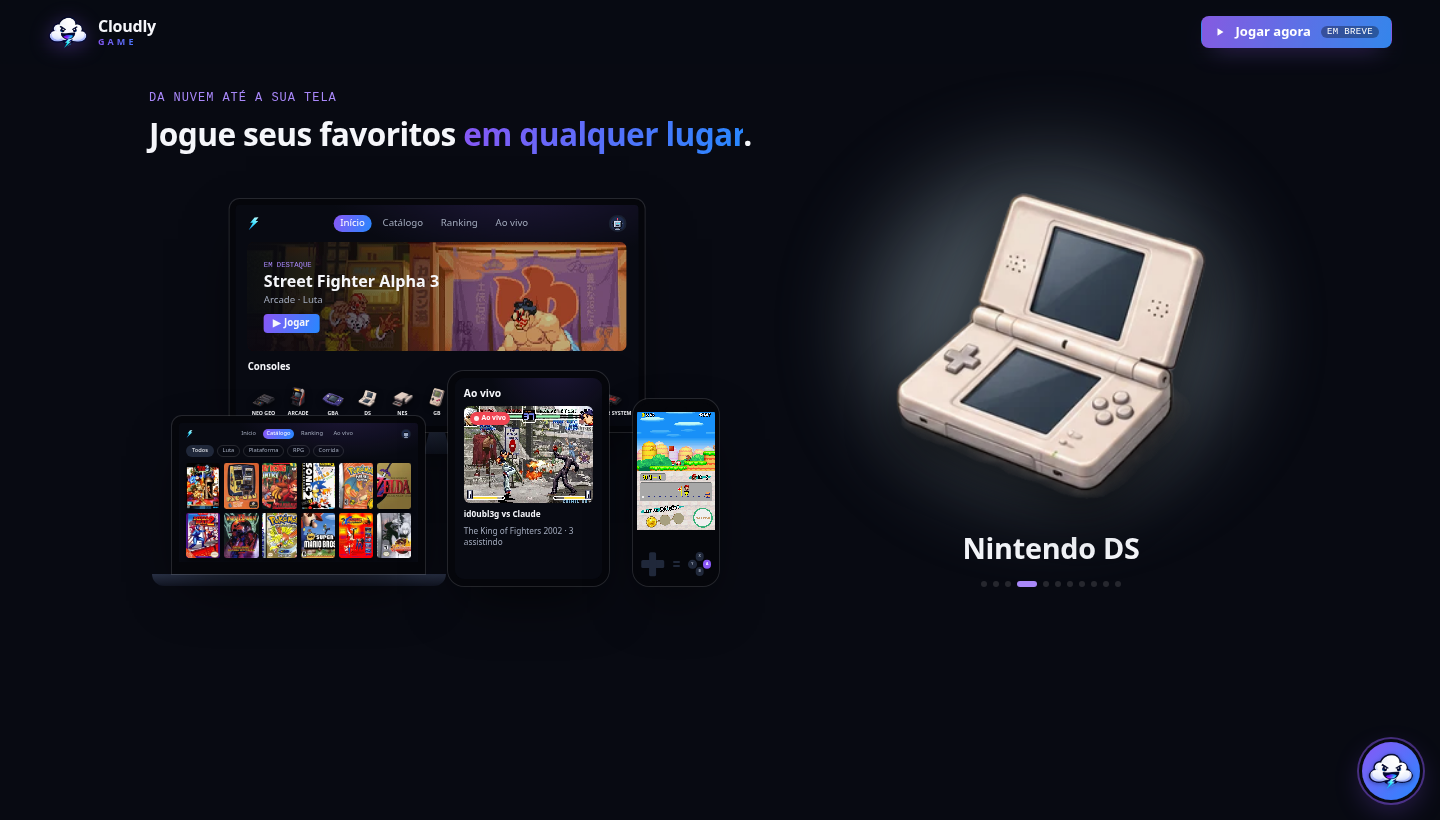
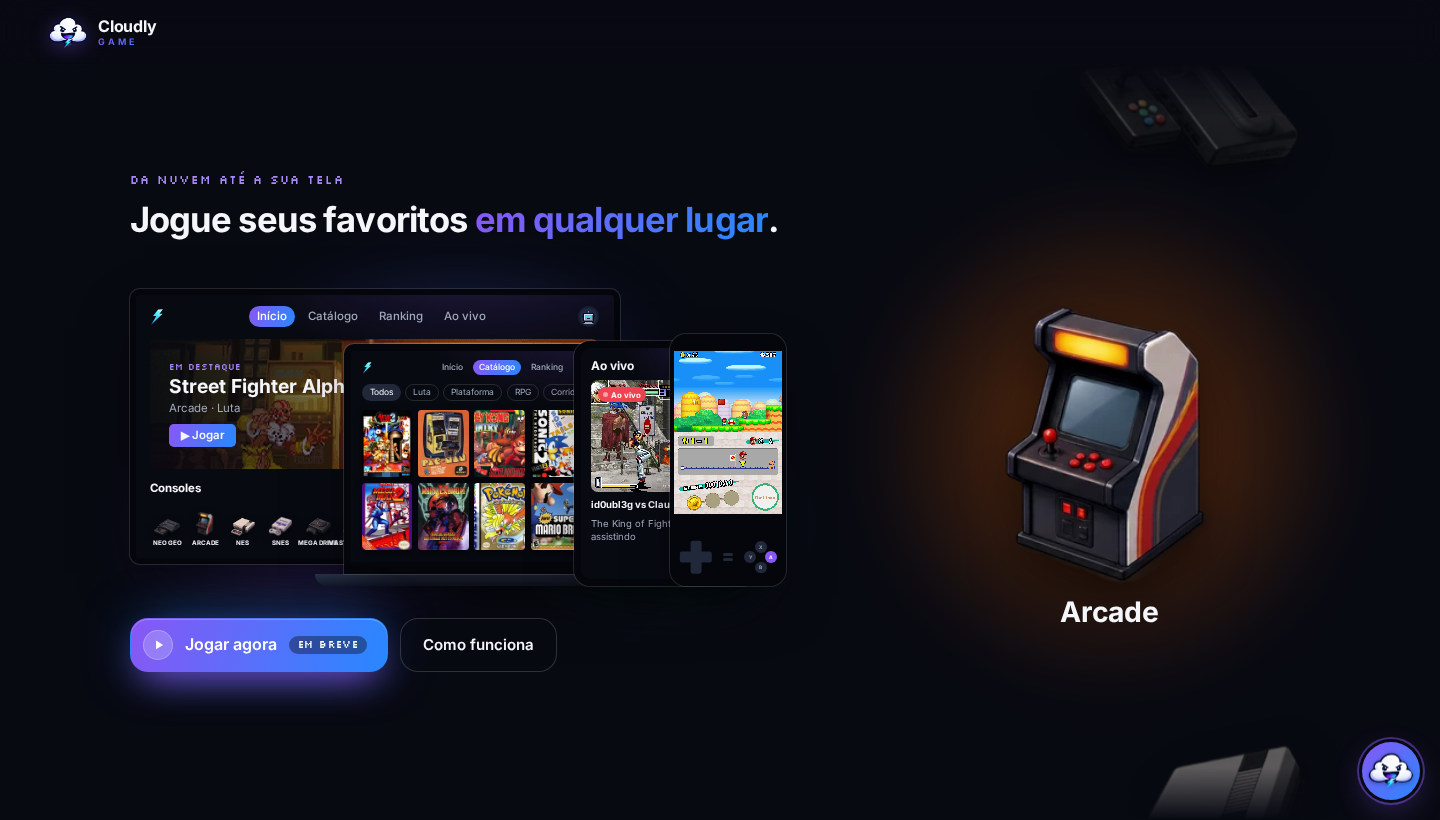
docs: describe the roulette, the new hero and the help chat and update the screenshot

diff --git a/README.md b/README.md
@@ -9,7 +9,7 @@
 </div>
 
 <p align="center">
-  <img src=".github/home.png" alt="Opening screen with the slogan and the headline on the left above a TV, a laptop, a tablet and a phone showing the app, and a large console on the right" width="100%">
+  <img src=".github/home.png" alt="Opening screen with the slogan and the headline on the left above a TV, a laptop, a tablet and a phone showing the app and the play button, and the consoles on a roulette wheel on the right" width="100%">
 </p>
 
 <!-- markdownlint-enable MD033 -->
@@ -32,17 +32,18 @@
 
 ## Overview
 
-Cloudly Game Landing is a static page, with plain HTML, CSS and JavaScript and no build step, that presents [Cloudly Game](https://github.com/id0ubl3g/cloudly-game-react) to people who have not played it yet. It opens on one screen with the headline and the app drawn on a TV, a laptop, a tablet and a phone on the left, and the eleven consoles passing one at a time on the right. Below it, one section shows the three steps to start playing and the other features, all drawn as real pieces of the app interface. The **Jogar agora** button in the header is marked **Em breve** until the platform opens, and the page collects no data. Cloudly, the mascot, sits in the corner as a help chat that answers the frequent questions.
+Cloudly Game Landing is a static page, with plain HTML, CSS and JavaScript and no build step, that presents [Cloudly Game](https://github.com/id0ubl3g/cloudly-game-react) to people who have not played it yet. It opens on one screen with the headline, the app drawn side by side on a TV, a laptop, a tablet and a phone and the play button on the left, and the twelve consoles turning on a roulette wheel on the right. Below it, one section shows the three steps to start playing and the other features, all drawn as real pieces of the app interface. The large **Jogar agora** button under the devices is marked **Em breve** until the platform opens, and the page collects no data. Cloudly, the mascot, sits in the corner as a help chat that answers the frequent questions.
 
 ## Features
 
 - Loading screen with Cloudly spitting bolts, the same as in the frontend, that covers the page until its styles, fonts and images are in (fonts and images are waited for 5 seconds at most), so the page never shows unstyled. On the first visit of the session it stays at least 2 seconds
-- Opening screen with the slogan **Da nuvem até a sua tela** and the headline on the left, above the app drawn in HTML on four devices: the home with the featured game and the console shelf on a TV, the catalog on a laptop, a live on a tablet and New Super Mario Bros. with the touch controls on a phone
-- When the loading screen leaves, the slogan, the headline, the four devices and the console come in one after the other, and further down the titles and cards appear in sequence as the page scrolls
-- The eleven consoles pass one at a time on the right of the opening screen, large, with the same artwork and color as the console shelf of the app and their name
-- **Jogar agora** in the top right corner of the header, marked **Em breve** until the platform opens, with the whole opening screen fitting without scrolling down to about 600px of height
+- Opening screen with the slogan **Da nuvem até a sua tela** and the headline on the left, above the app drawn in HTML on four devices in a row, each covering 75% of its width over the one before, and the play buttons: the home with the featured game and the console shelf on a TV, the catalog on a laptop, a live on a tablet and New Super Mario Bros. with the touch controls on a phone
+- When the loading screen leaves, the headline comes in letter by letter, as the hero title of the app; the four devices, the play button and the consoles follow, and further down the titles and cards appear in sequence as the page scrolls
+- Images that are still loading when the loading screen leaves hold their place with a skeleton, as in the app, and fade in when they arrive; the device under the pointer lifts a little
+- The twelve consoles sit on a roulette wheel whose hub is off the right edge of the screen: the console in front is large, with its glow color and name, and the one before and after come in tilted, cut by the screen. The wheel opens with a full spin, then turns on its own and stops while the pointer is over it; it also turns by dragging it, or with the arrow keys once focused, and a strong flick lets it spin free, slow down and land on a random console; the console in front lifts a little under the pointer, as on the console shelf of the app. On narrow screens the wheel turns sideways, with the neighbours cut by the sides of the screen
+- A large **Jogar agora** button under the devices, with a light sweeping across it, marked **Em breve** until the platform opens, next to **Como funciona**, which scrolls to the steps. The small one in the header only shows once the large one scrolls away, and the header turns to glass as the page scrolls
 - **Como funciona** in one section: three numbered steps to start playing, each drawn as a piece of the app (open in the browser on any device, pick a game in the catalog, call friends to the room), then the other features as cards: ranked, with the FT2 scoreboard over a fighting game, the elo card, the series result and the top of the ranking, save slots with the resume point, the level with the XP bar and the daily combo, a live card, the clip button, tournaments, with an event live over Super Bomberman 3 next to its bracket, the event alerts, public rooms, drawn as a list of open rooms with their seats and a join button, and rooms with friends, with the invite code and the invite alert
-- Help chat with Cloudly in the corner: fourteen frequent questions as suggestions, a list of all of them, and typed questions matched by keywords
+- Help chat with Cloudly in the corner, opened as a tall rectangle: fourteen frequent questions as suggestions, a list of all of them, and typed questions matched by keywords. On a phone the chat takes the whole screen, follows the area above the keyboard and keeps the keyboard closed until the text field is tapped, so the suggestions stay in sight
 - Brand look from the app: dark surfaces, the purple and blue gradient, Poppins and the Silkscreen pixel font, pill buttons and the pixel art sprites of the app
 - Works with the keyboard, follows the reduced motion setting of the system and has no horizontal scroll on phones
 
@@ -58,7 +59,7 @@ Cloudly Game Landing is a static page, with plain HTML, CSS and JavaScript and n
 
 | Anchor | Section |
 | ------ | ------- |
-| `#abertura` | Headline, the app on four devices and the consoles passing one at a time |
+| `#abertura` | Headline, the play button, the app on four devices and the consoles on a roulette wheel |
 | `#como-funciona` | The three steps to play and the other features |
 | `#ajuda` | Help chat with Cloudly |
 
@@ -117,7 +118,7 @@ To run Cloudly Game Landing, any static file server is enough, such as Python 3 
 
 ## Configuration
 
-Everything lives in `main.js`: the consoles, with their names and colors, in `PLATFORMS`, their order and artwork proportions in `SHOWCASE`, the time each console stays on screen in `CONSOLE_SLIDE_MS`, and the help chat questions and answers in `HELP_QUESTIONS`.
+Everything lives in `main.js`: the consoles, with their names and colors, in `PLATFORMS`, their order and artwork proportions in `SHOWCASE`, the time each console stays in front in `CONSOLE_TURN_MS`, and the help chat questions and answers in `HELP_QUESTIONS`.
 
 ## Running the Page
 
@@ -132,14 +133,14 @@ Open `http://localhost:8000`. To publish it, upload the folder to any static hos
 
 ### From the First Visit to the Product
 
-1. The person opens the page and sees the headline above the app on a TV, a laptop, a tablet and a phone, while the consoles pass one at a time on the right.
+1. The person opens the page and sees the headline above the app on a TV, a laptop, a tablet and a phone and the play button, while the consoles turn on a roulette wheel on the right.
 2. Scrolling down, the three steps show how to start playing, followed by the other features of the app.
-3. **Jogar agora** is marked **Em breve** and does nothing yet; asking Cloudly when the platform opens explains that it will lead to the platform as soon as it opens.
+3. **Jogar agora**, under the devices, is marked **Em breve** and does nothing yet; asking Cloudly when the platform opens explains that it will lead to the platform as soon as it opens.
 
 ### Asking Cloudly a Question
 
 1. Right after the loading screen, Cloudly says hello next to the button in the corner, and the greeting fades away after 5 seconds so it does not cover the page.
-2. Pressing the button, or **Perguntas** in the header, opens the chat with a greeting and four suggestions.
+2. Pressing the button opens the chat with a greeting and four suggestions.
 3. A suggestion, or a typed question such as "funciona no iphone?", gets an answer after a short typing animation, followed by new suggestions.
 4. The list button next to the text field opens all the questions. Escape closes the list first and then the chat.
 
@@ -162,7 +163,7 @@ Open `http://localhost:8000`. To publish it, upload the folder to any static hos
 
 1. Colors, radii, buttons, the console shelf colors and artwork, the home, catalog and play screens on the devices, the live card, the room seats, the save slots, the XP bar, the combo tile, the ranked scoreboard, the elo card, the ranking, the event bracket and the event alerts copy the styles of the frontend, so the page looks like the product. The app, in turn, uses the footer and the loading screen of the page.
 2. The pixel art (rank icons, avatars, flame, cartridge, stopwatch and heart) is generated from the sprite patterns of the frontend and saved as SVG files.
-3. The names, numbers and rewards shown in the features match what the platform does, such as eleven consoles, up to four players, three save slots, levels earned with XP in any match and shown as a number, apart from the elo, ranked series in FT2 in the fighting games that have ranked switched on, elos from Cobre to Ametista earned only in ranked, the top 50 in the ranking, and tournaments in 1v1 or in pairs with one point per win, a call 10 minutes before the start and 5 minutes to join the room when the match is called.
+3. The names, numbers and rewards shown in the features match what the platform does, such as twelve consoles, up to four players, three save slots, levels earned with XP in any match and shown as a number, apart from the elo, ranked series in FT2 in the fighting games that have ranked switched on, elos from Cobre to Ametista earned only in ranked, the top 50 in the ranking, and tournaments in 1v1 or in pairs with one point per win, a call 10 minutes before the start and 5 minutes to join the room when the match is called.
 
 ## License
 
